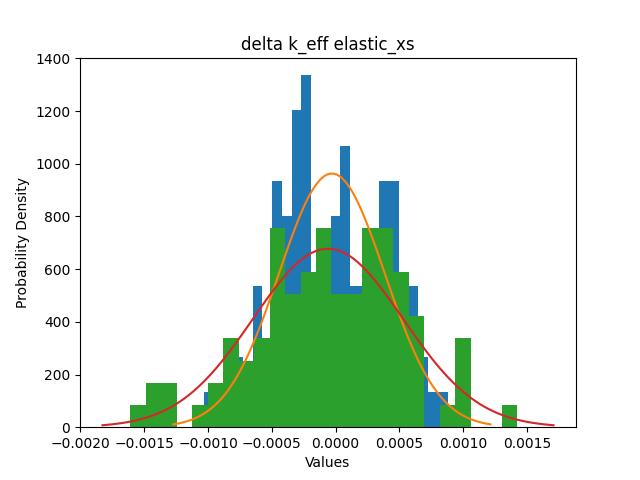
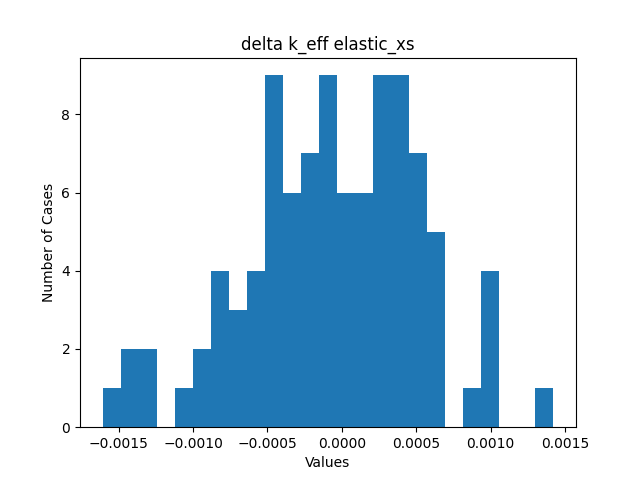
Results

diff --git a/index_runall.py b/index_runall.py
@@ -1,0 +1,101 @@
+import os
+import matplotlib.pyplot as plt
+import pyne.ace
+import requests
+import np_csvimport
+from scipy.interpolate import interp2d
+from scipy.interpolate import interp1d
+import numpy as np
+from pyne.rxname import *
+
+#First number is MT and second is filename
+name_dict = {"n,2n":("2n","n_2n"),"n,3n":("z_3n","n_3n"),"n,4n":("z_4n","n_4n") \
+              ,"fission":("fission","fission"), "elastic":("elastic","elastic") \
+                    ,"inelastic":("inelastic","inelastic"),"total":("total","total")}
+#name_dict = {"fission":("fission","fission"), "elastic":("elastic","elastic") \
+  #                  ,"inelastic":("inelastic","inelastic"),"total":("total","total")}
+
+# list all the keys in name_dict
+keys = list(name_dict.keys())
+for key in keys:
+    mt_number,filespec, = name_dict[key]
+    # use the filename and mt_number variables to do further processing
+
+    reaction_ind = mt(mt_number)
+    central_file_name = os.path.join('U235.nuss.10.10.2016', f'U235-n.ace_0000')
+    with open(central_file_name, 'rb') as infile:
+        central_file_contents = infile.read()
+
+        # Write the contents to a new file
+    with open('U235central.ace', 'wb') as outfile:
+        outfile.write(central_file_contents)
+
+    lib = pyne.ace.Library('U235central.ace')
+    lib.read('92235.00c')
+    lib.tables
+    centralU235 = lib.tables['92235.00c']
+    if key == "total":
+        central_xs = centralU235.sigma_t
+        energy = centralU235.energy
+    else:
+        central_xs = centralU235.reactions[reaction_ind].sigma
+        spec_reaction = centralU235.reactions[reaction_ind]
+        energy = centralU235.energy[spec_reaction.IE:]
+
+    filename = f'csv_files/Godiva_{filespec}.csv'
+    sens_vector_energy, sens_vector_values = np_csvimport.csv_import(filename)
+    energy *= 1e+06
+    sens_vec_values_adjusted = np.interp(energy,sens_vector_energy,sens_vector_values)
+
+
+    results_vector = np.zeros(shape = (98,1))
+    file_indxs = ["01","02","03","04","05","06","07","08","09"] + list(range(10,100))
+    for i in file_indxs:
+        if int(i) == 44:
+            continue
+        # Navigate to the file within the directory
+        file_path = os.path.join('U235.nuss.10.10.2016', f'U235-n.ace_00{i}')
+        # Open the file and read its contents
+        with open(file_path, 'rb') as infile:
+            file_contents = infile.read()
+
+        # Write the contents to a new file
+        with open('U235.ace', 'wb') as outfile:
+            outfile.write(file_contents)
+
+        lib = pyne.ace.Library('U235.ace')
+        lib.read('92235.00c')
+        lib.tables
+        w180 = lib.tables['92235.00c']
+        if key == "total":
+            xs = w180.sigma_t
+            energy = w180.energy
+        else:
+            xs = w180.reactions[reaction_ind].sigma
+            spec_reaction = w180.reactions[reaction_ind]
+            energy = w180.energy[spec_reaction.IE:]
+        
+
+        filename = f'csv_files/Godiva_{filespec}.csv'
+        sens_vector_energy, sens_vector_values = np_csvimport.csv_import(filename)
+        energy *= 1e+06
+        sens_vec_values_adjusted = np.interp(energy,sens_vector_energy,sens_vector_values)
+
+        tmp = np.dot(sens_vec_values_adjusted,(xs.transpose()-central_xs.transpose()))
+        if int(i)>=44:
+            results_vector[int(i)-2,0] = tmp
+        else:
+            results_vector[int(i)-1,0] = tmp
+
+    mean = np.mean(results_vector)
+    std_dev = np.std(results_vector)
+
+    plt.hist(results_vector, bins=25, density=False)
+
+    # Set the plot title and axis labels
+    plt.title(f'delta k_eff {filespec}_xs')
+    plt.xlabel('Values')
+    plt.ylabel('Number of Cases')
+
+    plt.savefig(f'result_plots/figure_{filespec}.png')
+    plt.clf()

diff --git a/run_all.py b/run_all.py
@@ -9,11 +9,11 @@ import numpy as np
 from pyne.rxname import *
 
 #First number is MT and second is filename
-#name_dict = {"n,2n":("2n","n_2n"),"n,3n":("z_3n","n_3n"),"n,4n":("z_4n","n_4n") \
-#               ,"fission":("fission","fission"), "elastic":("elastic","elastic") \
- #                   ,"inelastic":("inelastic","inelastic"),"total":("total","total")}
-name_dict = {"fission":("fission","fission"), "elastic":("elastic","elastic") \
+name_dict = {"n,2n":("2n","n_2n"),"n,3n":("z_3n","n_3n"),"n,4n":("z_4n","n_4n") \
+              ,"fission":("fission","fission"), "elastic":("elastic","elastic") \
                     ,"inelastic":("inelastic","inelastic"),"total":("total","total")}
+#name_dict = {"fission":("fission","fission"), "elastic":("elastic","elastic") \
+  #                  ,"inelastic":("inelastic","inelastic"),"total":("total","total")}
 
 # list all the keys in name_dict
 keys = list(name_dict.keys())
@@ -34,8 +34,13 @@ for key in keys:
     lib.read('92235.00c')
     lib.tables
     centralU235 = lib.tables['92235.00c']
-    central_xs = centralU235.reactions[reaction_ind].sigma
-    energy = centralU235.energy
+    if key == "total":
+        central_xs = centralU235.sigma_t
+        energy = centralU235.energy
+    else:
+        central_xs = centralU235.reactions[reaction_ind].sigma
+        spec_reaction = centralU235.reactions[reaction_ind]
+        energy = centralU235.energy[spec_reaction.IE:]
 
     filename = f'csv_files/Godiva_{filespec}.csv'
     sens_vector_energy, sens_vector_values = np_csvimport.csv_import(filename)
@@ -62,8 +67,14 @@ for key in keys:
         lib.read('92235.00c')
         lib.tables
         w180 = lib.tables['92235.00c']
-        xs = w180.reactions[reaction_ind].sigma
-        energy = w180.energy
+        if key == "total":
+            xs = w180.sigma_t
+            energy = w180.energy
+        else:
+            xs = w180.reactions[reaction_ind].sigma
+            spec_reaction = w180.reactions[reaction_ind]
+            energy = w180.energy[spec_reaction.IE:]
+        
 
         filename = f'csv_files/Godiva_{filespec}.csv'
         sens_vector_energy, sens_vector_values = np_csvimport.csv_import(filename)
